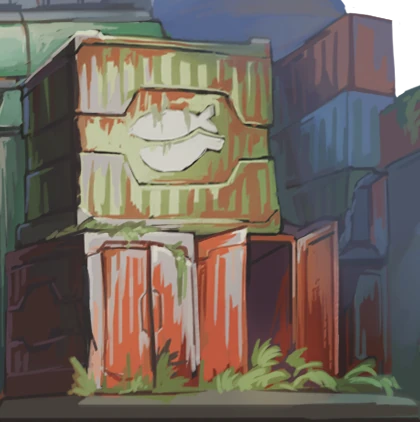
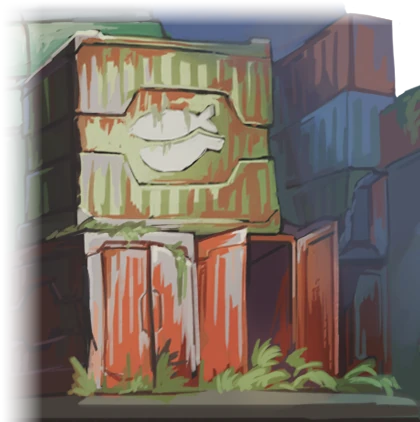
Ver 1.91: 7장 부두 식당 그림의 곧게 잘린 왼쪽 가장자리 녹이기, 레이더를 부두 안쪽으로, 6장 연구소 눈 더미 양 끝 녹이기, 눈밭에서 가로등 빛이 하얀 얼룩으로 번지던 것 없애기

Changed region(s): [[0.0, 0.0, 0.9286, 1.0]]

diff --git a/js/town.js b/js/town.js
@@ -269,7 +269,7 @@
       back: [{ art: 'town/t7_sea', by: 6.05, h: 6.4, repeat: 1, mirror: 1 }],
       objects: [
         BLD('cmd', 'town/t4_shop', 1, 7, 9, 3, 6, { plinth: 0 }), BLD('shop', 'town/t5_shop', 15, 7, 7, 3, 18, { plinth: 0, glow: '255,120,110' }), BLD('cafe', 'town/t2_cafe', 19, 13, 5, 3, 21, { plinth: 0 }),
-        D('town/t3_radar', 23, 7, 1, 2.6), D('town/t0_mgnest', 10, 7, 3, 1.1), D('town/t3_mg', 11, 7, 1, 1.2, { block: 0 }),
+        D('town/t3_radar', 23, 9, 1, 2.4), D('town/t0_mgnest', 10, 7, 3, 1.1), D('town/t3_mg', 11, 7, 1, 1.2, { block: 0 }),
         D('tiles/crate1', 3, 12, 1, 1.0), D('tiles/crate0', 4, 12, 1, 0.9), D('tiles/crate1', 3, 13, 1, 1.0), D('tiles/barrel', 15, 12, 1, 1.1), D('tiles/barrel', 16, 12, 1, 1.0),
         D('tiles/console', 8, 14, 2, 1.4, { lit: [90, '120,220,255'] }), D('tiles/gas', 1, 15, 2, 1.4), D('tiles/bags1', 15, 15, 2, 0.8), D('town/b_bench', 5, 15, 2, 0.9),
         D('town/t0_lamp', 11, 9, 1, 2.1, { lit: [120, '255,222,160'] }), D('town/t0_lamp', 22, 9, 1, 2.1, { lit: [120, '255,222,160'] }), D('town/t0_lamp', 10, 13, 1, 2.1, { lit: [120, '255,222,160'] }),
@@ -774,7 +774,7 @@
   function drawGlows(vw, vh, a) {
     const fl = (L) => 1 + Math.sin(T * 11 + L.ph) * 0.3 * L.fl + Math.sin(T * 23 + L.ph * 3) * 0.18 * L.fl;
     ctx.save(); ctx.globalCompositeOperation = 'lighter';
-    for (const L of lights) if (L.lamp) {
+    for (const L of lights) if (L.lamp && !(map.fx === 'snow')) {
       const c = ctx.createRadialGradient(L.x, L.y, 0, L.x, L.y, 26); c.addColorStop(0, `rgba(${L.c},.9)`); c.addColorStop(0.25, `rgba(${L.c},.45)`); c.addColorStop(1, `rgba(${L.c},0)`);
       ctx.fillStyle = c; ctx.fillRect(L.x - 26, L.y - 26, 52, 52);
       const gy = L.gy, pr = ctx.createRadialGradient(L.x, gy, 0, L.x, gy, 70); pr.addColorStop(0, `rgba(${L.c},${0.16 + a * 0.2})`); pr.addColorStop(1, `rgba(${L.c},0)`);

diff --git a/js/game.js b/js/game.js
@@ -2421,7 +2421,7 @@
   }
   function hideScreen() { keepSnap(); $('screen').innerHTML = ''; }
   // 타이틀: 원작과 같은 구성 (폐허를 올려다보는 배경 + 빛 + LAST ORIGIN 로고 + 화면 터치 + 타이틀 콜)
-  const GAME_VERSION = '1.90';
+  const GAME_VERSION = '1.91';
   const TITLE_CALLS = ['Title-2', 'Title-4', 'Title-6', 'Title-8', 'Voice_3P_ConstantiaS2_Title-4', 'Voice_3P_ConstantiaS2_Title-8', 'Voice_BR_PA00EL_Title-4', 'Voice_BR_PA00EL_Title-7', 'Voice_PECS_LRL_N_Title-1', 'Voice_PECS_LRL_N_Title-4', 'Voice_PECS_PuppHead_Title-3', 'Voice_PECS_PuppHead_Title-5'];
   function title() {
     leaveMap();

diff --git a/tools/build_town.py b/tools/build_town.py
@@ -144,7 +144,7 @@ def add_snow(im):
     return Image.fromarray(np.dstack([np.clip(rgb, 0, 255), a[:, :, 3:]]).astype(np.uint8))
 
 
-FADE = {'t4_cafe': {'t': 0.3, 'r': 0.18}, 't4_pillar': {'t': 0.25}, 't4_cmd': {'t': 0.12}}
+FADE = {'t4_cafe': {'t': 0.3, 'r': 0.18}, 't4_pillar': {'t': 0.25}, 't4_cmd': {'t': 0.12}, 't2_cafe': {'l': 0.1, 't': 0.06}}
 ONLY = set(os.sys.argv[1:])  # 이름을 주면 그 조각만 다시 만든다
 
 
@@ -231,6 +231,12 @@ def composite():
     # 양옆 눈 더미를 다시 덮어 문이 눈 속에 묻힌 것처럼
     L = mound.crop((0, 0, int(W * 0.36), mh)); R = mound.crop((int(W * 0.64), 0, W, mh))
     out.alpha_composite(L, (0, H - mh)); out.alpha_composite(R, (int(W * 0.64), H - mh))
+    oa = np.asarray(out).astype(np.float32); hh2, ww2 = oa.shape[:2]  # 눈 더미 양 끝의 곧은 자른 자국을 녹인다
+    for side in ('l', 'r'):
+        n = int(ww2 * 0.12); r = (np.arange(n) / n) ** 1.4
+        if side == 'l': oa[:, :n, 3] *= r[None, :]
+        else: oa[:, ww2 - n:, 3] *= r[None, ::-1]
+    out = Image.fromarray(oa.astype(np.uint8))
     out.save(os.path.join(OUT, 't6_bunker.webp'), quality=90, method=6)
 
 
